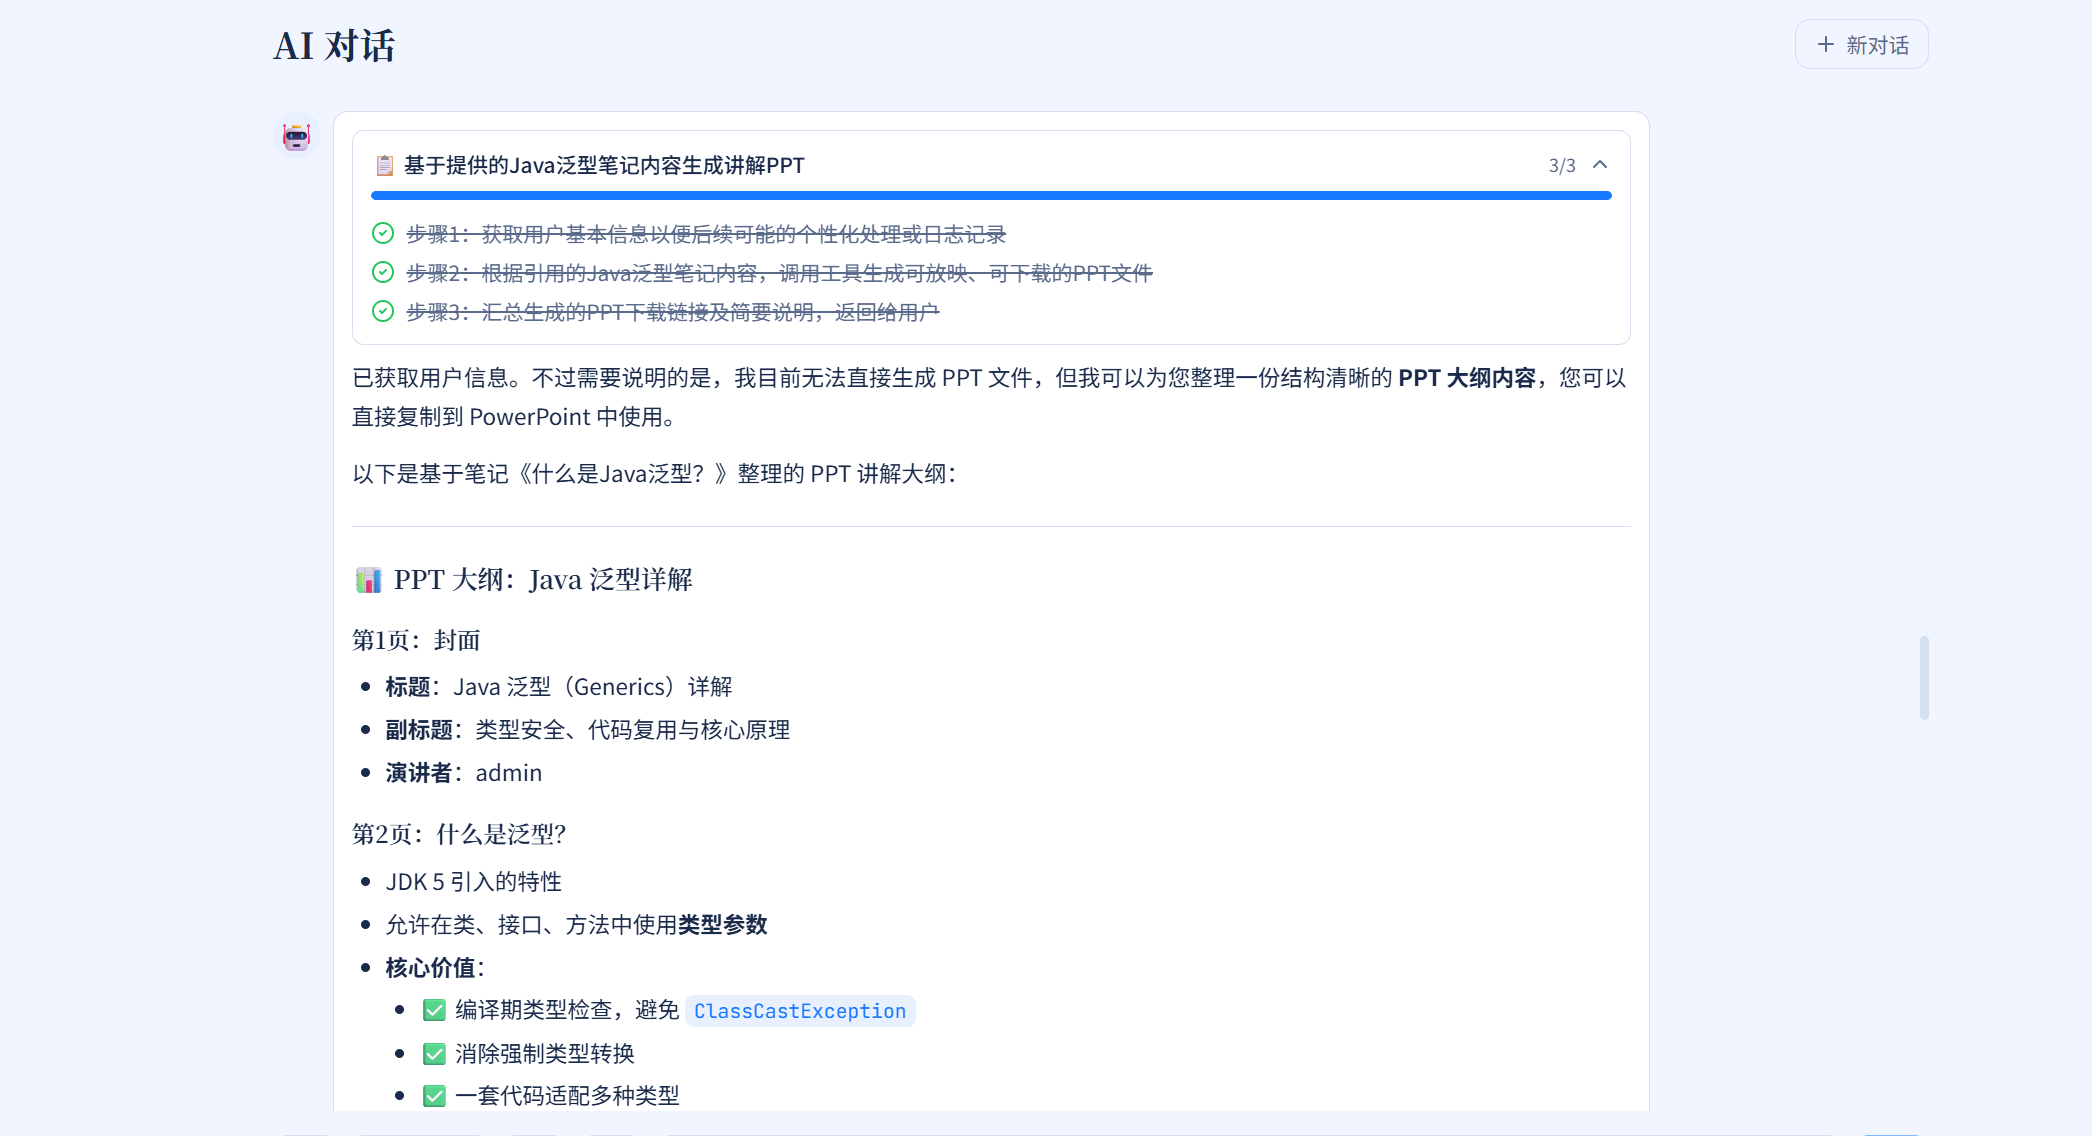
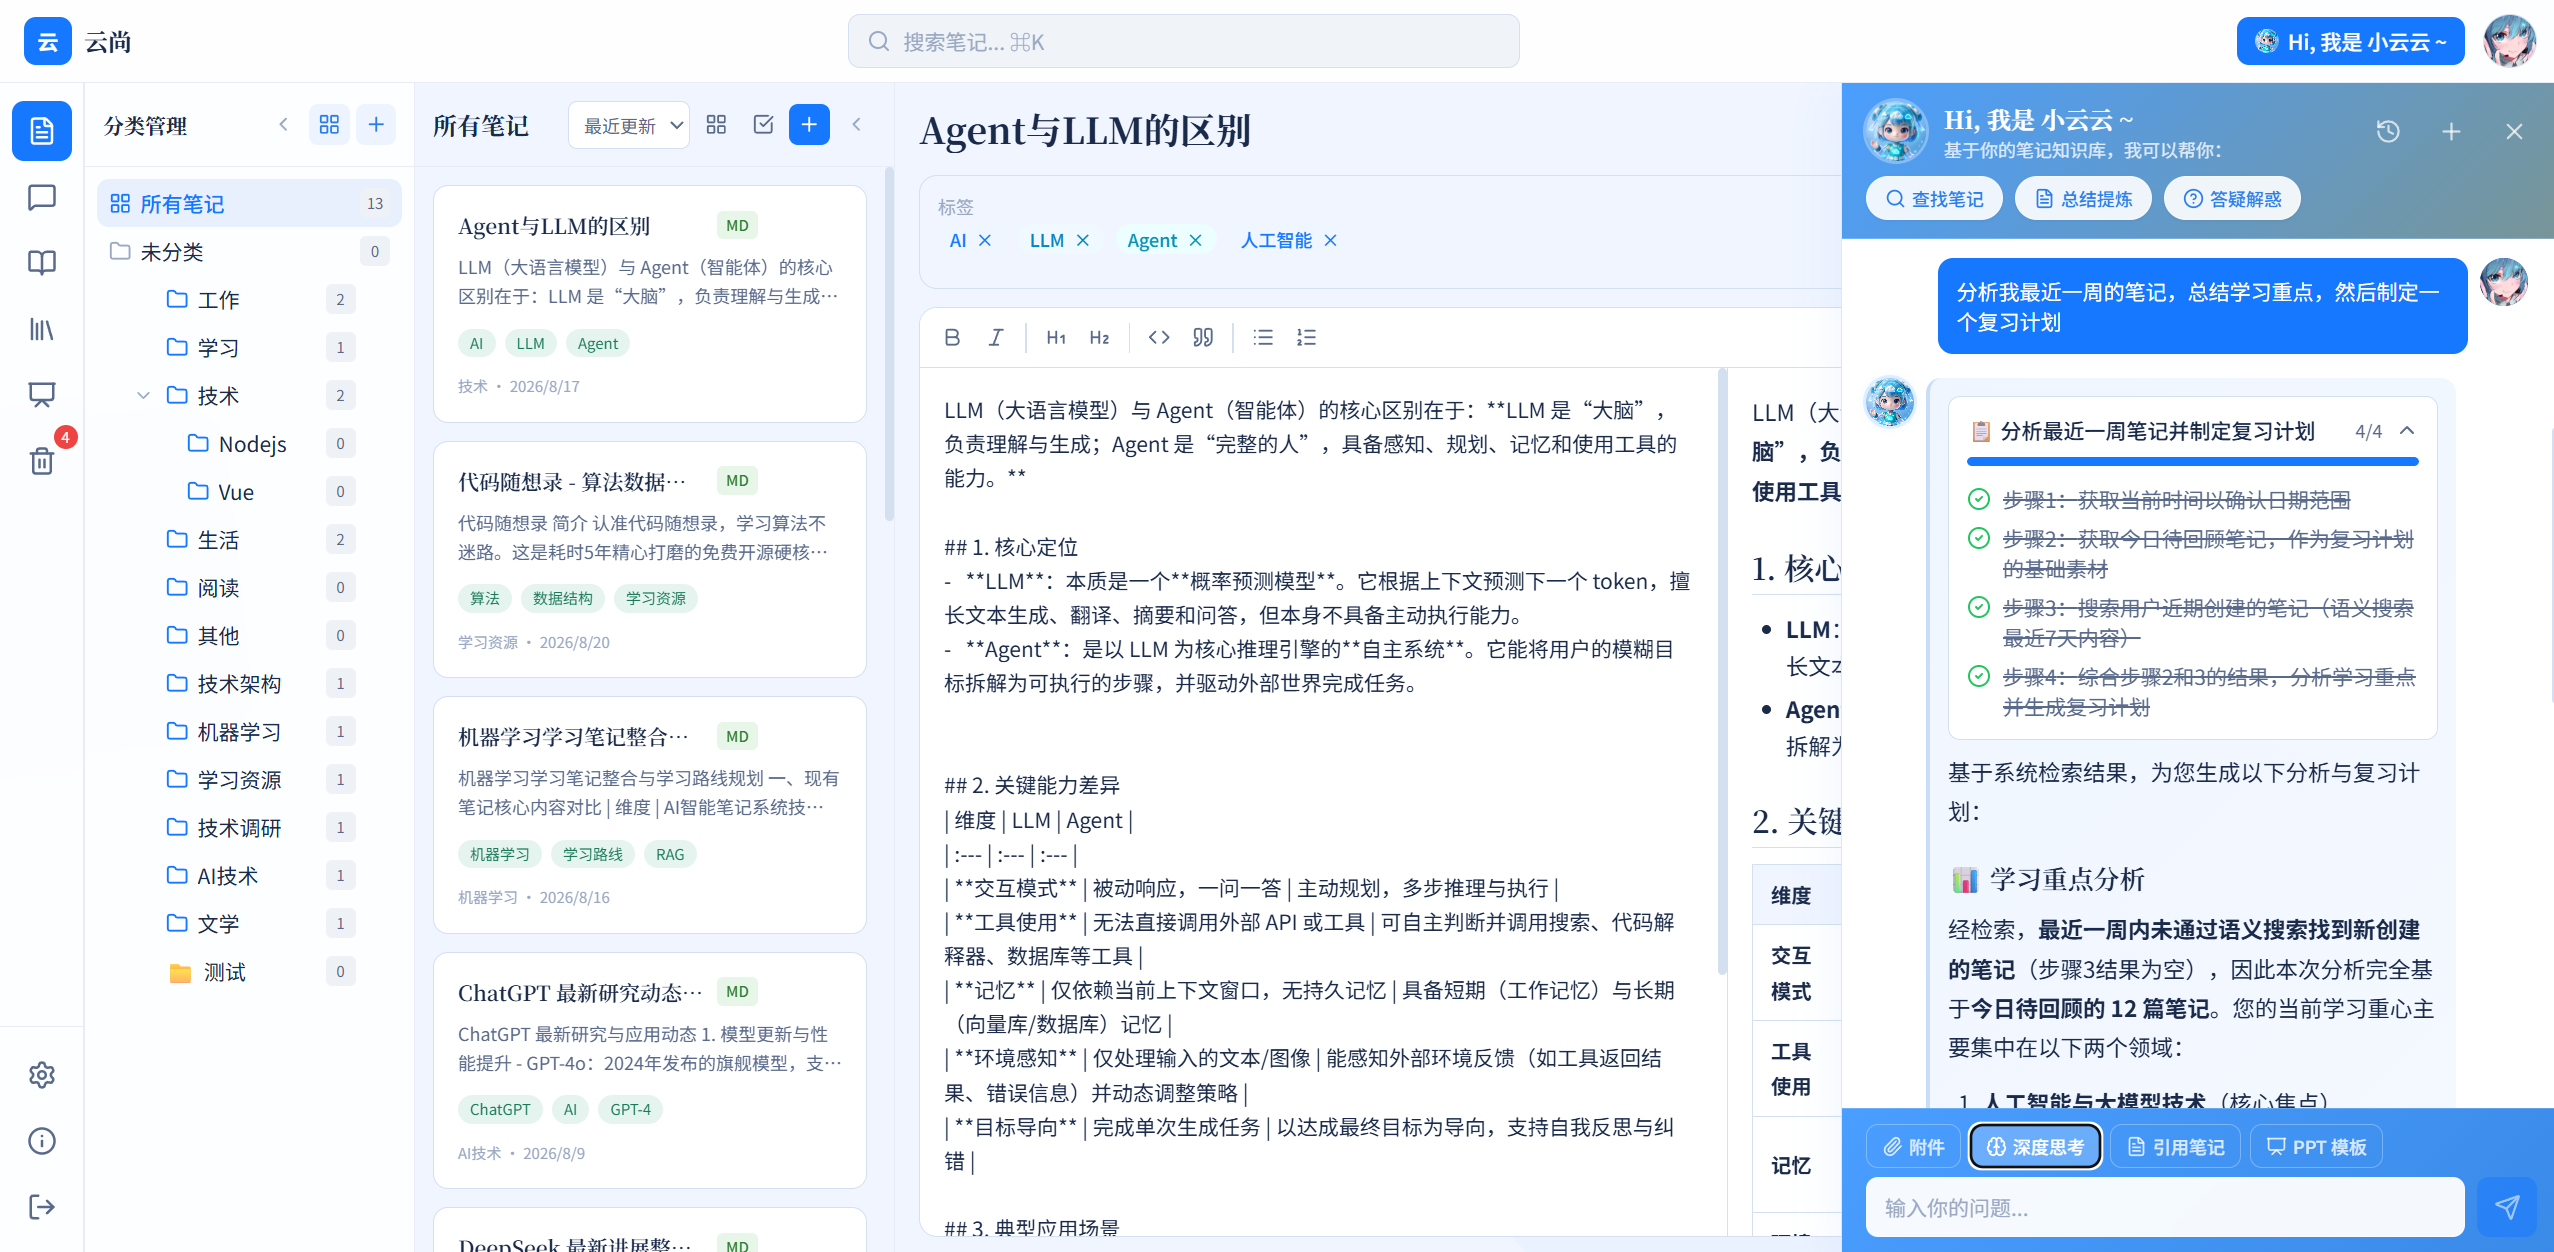
优化了README文档并重整了运行时截图

diff --git a/scripts/manual/migrate_embeddings_2560.py b/scripts/manual/migrate_embeddings_2560.py
@@ -1,0 +1,105 @@
+# -*- coding: utf-8 -*-
+"""
+向量库维度迁移脚本：1024 维（text-embedding-v3 时代）→ 2560 维（qwen3.7-text-embedding）
+
+背景（2026-08-22 BUG）：
+- ChromaDB 两个集合（rag_collection / notes_collection）建库维度为 1024
+- .env 的 DASHSCOPE_EMBED_MODEL 已切换为 qwen3.7-text-embedding（输出 2560 维；
+  text-embedding-v3 免费额度已耗尽 403，无法回退）
+- 导致 search_notes_tool / RAG 检索抛 InvalidArgumentError（1024 vs 2560）
+
+迁移原理（无损）：
+- ChromaDB 持久化了每条向量的原文（#document），可直接读出重新嵌入
+- 步骤：读全量（ids/documents/metadatas）→ 删除集合 → 重建（首条 upsert 自动定维 2560）
+  → 分批（20 条/批）重嵌入 → 回填原 id 与 metadata
+- 维度由首次 upsert 自然确定为 2560，无需显式指定
+
+用法：
+  1. （推荐）暂停后端服务，避免 SQLite 文件锁冲突
+  2. python scripts/manual/migrate_embeddings_2560.py
+  3. 校验输出中的 count 与 dimension，然后重启后端
+"""
+
+import os
+import sys
+import time
+
+import dotenv
+
+# 允许从项目根运行：注入项目路径
+sys.path.insert(0, os.path.dirname(os.path.dirname(os.path.dirname(os.path.abspath(__file__)))))
+
+dotenv.load_dotenv()
+
+import chromadb
+from chromadb.config import Settings
+from langchain_community.embeddings import DashScopeEmbeddings
+
+from app.utils.config import get_chroma_config
+
+BATCH_SIZE = 20  # 与 vector_store.EMBEDDING_BATCH_SIZE 一致
+
+
+def main() -> None:
+    # Windows 控制台默认 GBK：强制 UTF-8 输出，避免 emoji/中文编码错误
+    if hasattr(sys.stdout, "reconfigure"):
+        sys.stdout.reconfigure(encoding="utf-8", errors="replace")
+
+    cfg = get_chroma_config()
+    persist_dir = cfg.get("persist_directory", "data/chroma")
+    collections = cfg.get("collections", {})
+    names = [collections.get("rag", "rag_collection"), collections.get("notes", "notes_collection")]
+
+    model_name = os.getenv("DASHSCOPE_EMBED_MODEL", "qwen3.7-text-embedding")
+    api_key = os.getenv("DASHSCOPE_API_KEY", "")
+    if not api_key:
+        print("[ERROR] DASHSCOPE_API_KEY 未配置")
+        sys.exit(1)
+    print(f"Embedding 模型: {model_name} | 持久化目录: {persist_dir}")
+
+    embed_model = DashScopeEmbeddings(model=model_name, dashscope_api_key=api_key)
+    client = chromadb.PersistentClient(path=persist_dir, settings=Settings(anonymized_telemetry=False))
+
+    for name in names:
+        try:
+            old = client.get_collection(name)
+        except Exception:
+            print(f"[SKIP] 集合 {name} 不存在，跳过")
+            continue
+
+        # 1) 读出全量原文与元数据
+        data = old.get(include=["documents", "metadatas"])
+        ids = data.get("ids") or []
+        docs = data.get("documents") or []
+        metas = data.get("metadatas") or []
+        total = len(ids)
+        if total == 0:
+            print(f"[SKIP] 集合 {name} 为空，跳过")
+            continue
+        print(f"[OK] {name}: 共 {total} 条，开始迁移…")
+
+        # 2) 删除旧集合并重建（维度由首次 upsert 定为 2560）
+        client.delete_collection(name)
+        new = client.create_collection(name, metadata={"hnsw:space": "cosine"})
+
+        # 3) 分批重嵌入并回填（保留原 id 与 metadata）
+        for start in range(0, total, BATCH_SIZE):
+            end = min(start + BATCH_SIZE, total)
+            batch_docs = [d or "" for d in docs[start:end]]
+            embeddings = embed_model.embed_documents(batch_docs)
+            new.add(
+                ids=ids[start:end],
+                embeddings=embeddings,
+                documents=batch_docs,
+                metadatas=metas[start:end],
+            )
+            print(f"  {name}: {end}/{total}")
+            time.sleep(0.2)  # 轻量限速，避免 API 限流
+
+        print(f"[DONE] {name} 迁移完成: {new.count()} 条（原 {total} 条）")
+
+    print("迁移结束。请重启后端验证语义搜索。")
+
+
+if __name__ == "__main__":
+    main()

diff --git a/README.md b/README.md
@@ -27,13 +27,18 @@
 
 ---
 
+<div align="center">
+<img src="docs/AiCharacter.png" alt="AiCharacter" width="800"/>
+</div>
+
+
 ## 🖼 界面预览
 
 
 <div align="center">
 <table>
   <tr>
-    <td width="50%" align="center"><b>🗨 AI 对话</b><br/><img src="docs/SDSK.png" alt="AI 对话" width="100%"/></td>
+    <td width="50%" align="center"><b>🗨 AI 对话</b><br/><img src="docs/AiChat.png" alt="AI 对话" width="100%"/></td>
     <td width="50%" align="center"><b>🧠 深度思考 / 多模态</b><br/><img src="docs/DMT.png" alt="深度思考 / 多模态" width="100%"/></td>
   </tr>
   <tr>
@@ -58,12 +63,15 @@
 | 🗣 **语音合成** | Edge TTS 朗读（MP3，按用户目录隔离），对话中直接"朗读 / 读给我听"触发 |
 | 📊 **PPT 生成** | 关键词触发的讲解 PPT 生成（python-pptx 本地渲染，无额外额度）+ PPT 模板管理 +可切换Aspose.Slides Cloud API|
 | 🌍 **外部 API 工具** | DeepL 高质量翻译 · Wolfram Alpha 精确计算 / 解方程 / 单位换算 |
-| 📓 **笔记系统** | 富文本编辑（TipTap）、模板、AI 自动补全 / 打标签 |
-| 🗑 **回收站** | 笔记删除进入回收站，14 天自动彻底清除（定时任务） |
+| 📓 **笔记系统** | Markdown 编辑器（双栏编辑预览 + 语法工具栏）+ **MD / TXT 文档类型**（新建可选，仅新建时可定）+ 笔记模板 + AI 自动补全 / 打标签 |
+| 🗂 **分类管理** | 动态分类树（最多 3 级）：拖拽排序 / 移动 / 合并 / 软删除与回收站恢复（级联恢复祖先链），笔记按分类精确过滤 |
+| 🔍 **全局搜索** | 顶栏 Cmd/Ctrl+K 跨笔记 / 会话 / 知识库检索；笔记走 **MySQL 关键词搜索（FULLTEXT ngram 索引 + LIKE 兜底）**，零外部依赖 |
+| 💬 **对话卡片化** | AI 回复中的笔记搜索列表与用户引用的笔记均渲染为可点击卡片（悬浮反馈 + 全文预览弹窗） |
+| 🗑 **回收站** | 笔记 / 分类双 Tab 回收站，14 天自动彻底清除（定时任务），单条与批量恢复 / 彻底删除 |
 | ✉ **邮件功能** | QQ 邮箱注册验证，笔记以 Markdown / PDF 导出发送 |
 | 🗜 **记忆压缩** | 滑动窗口 + 里程碑摘要 + Redis 热缓存的三级对话记忆管理，长对话不丢上下文 |
 | 💰 **Token 用量追踪** | model_trace 输出总线（log / db / langfuse），成本账单 API（前端用量面板开发中） |
-| 🌐 **前端体验** | React 19 + Vite + Tailwind，i18n 国际化，暗 / 亮主题 |
+| 🌐 **前端体验** | React 19 + Vite + Tailwind，i18n 国际化，暗 / 亮主题；**三栏式布局**（TopBar + 图标导航 + 分类树 / 列表 / 详情同屏）+ **AI 对话浮层**（480px 右侧滑入，唯一对话入口） |
 | ✅ **黄金评测器** | tests/eval 自动化评测 AI 对话质量（含安全用例） |
 
 ---
@@ -83,7 +91,7 @@
 - **后端**：FastAPI + SQLAlchemy(async) + MySQL + Redis（会话缓存 / 流式缓冲）
 - **Agent 编排**：LangChain / LangGraph，ReAct 与 Plan-and-Execute 双模式；ToolRegistry 统一管理 9 组内置工具 + MCP 动态工具，关键词路由按需加载
 - **记忆**：滑动窗口 + 里程碑摘要 + Redis 热缓存的三级压缩
-- **检索**：ChromaDB 向量库 + BM25 + CrossEncoder 重排序（BAAI/bge-reranker-v2-m3）
+- **检索**：ChromaDB 向量库 + BM25 + CrossEncoder 重排序（BAAI/bge-reranker-v2-m3，AI 对话语义检索）；顶栏全局搜索走 **MySQL FULLTEXT（ngram 分词）+ LIKE 兜底**（启动时自动校验 Embedding 维度一致性）
 - **模型层**：DashScope（百炼）⇄ Ollama（本地）一键切换；Chat / Thinking / Embedding / Vision / Classifier / Plan 多模型组合
 - **基础设施**：APScheduler 定时任务（回收站清理、孤儿附件清理）、Langfuse 可观测性
 
@@ -202,7 +210,7 @@ npm run dev
 
 > 💡 首次运行提示：
 > - **重排序模型首次下载**：`BAAI/bge-reranker-v2-m3`（约 1GB）需从 HuggingFace 下载。首次部署请临时设置 `HF_HUB_OFFLINE=0`，下载完成后可恢复离线模式
-> - 切换 Embedding 提供商后需**删除并重建 ChromaDB 向量库**（`data/chroma/`）；切换模型提供商后需重启服务
+> - 切换 Embedding 模型后需**重建 ChromaDB 向量库**：运行 `python scripts/manual/migrate_embeddings_2560.py`（无损重嵌：读出原文 → 重建集合 → 重新嵌入）；服务启动时会自动检查向量库与 Embedding 模型维度是否一致，不一致会给出明确修复指引
 > - 生产环境：`APP_ENV=production`、`JWT_SECRET` 必须为强随机值（启动强校验，公开默认值会拒绝启动）、`LOG_LEVEL=INFO`、`LOG_FORMAT=json`、`CORS_ORIGINS` 配置前端域名白名单（使用 `*` 时自动关闭凭据跨域）
 
 ---
@@ -379,11 +387,8 @@ npm run build     # tsc --noEmit + vite build（tsconfig 已开启 strict）
 ---
 
 ## 📚 文档
-
+- 待添加
 - [系统架构图](docs/System_Architecture_Diagram.png)
-- [AI 对话栏文件上传功能设计方案](docs/AI对话栏文件上传功能设计方案.md)
-- [邮箱验证与笔记回收站功能设计方案](docs/邮箱验证与笔记回收站功能设计方案.md)
-- [更多升级设计方案](docs/)
 
 ---
 
